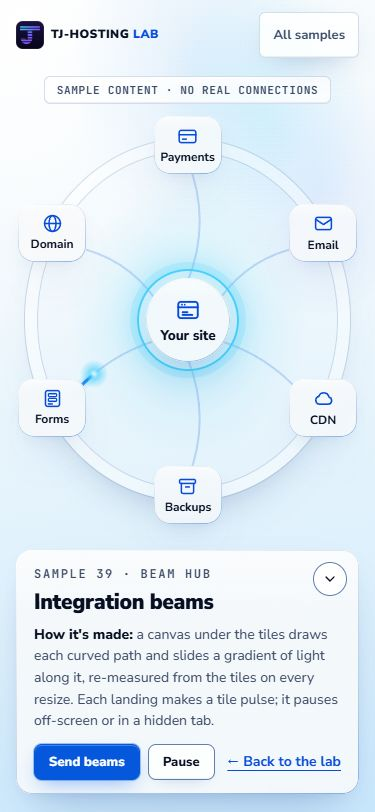
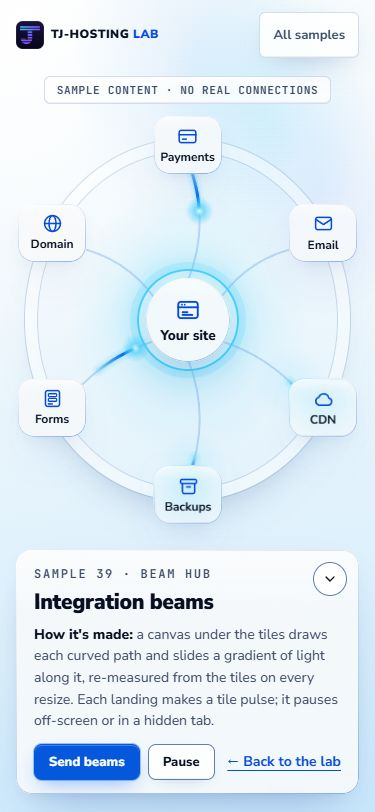
improve(lab-05): S36 beam hub always has light moving
The source's ease-out parked each light under its tile for most of a run, and the six beams ran in phase, so stills often showed none. Now a gentle ease-in-out, staggered first runs and at least four beams on their way at once. Re-gated: PASS, median 16.7 ms.

diff --git a/samples/integration-beams/piece.js b/samples/integration-beams/piece.js
@@ -36,9 +36,10 @@
  * What it keeps from the source: a quadratic path between two measured elements (positions read with
  * getBoundingClientRect, relative to the container), bowed upward by a curvature; a faint path under a brighter one; a
  * light segment whose gradient runs from a head colour through a body colour (at 32.5%) to transparent; the
- * cubic-bezier(0.16, 1, 0.3, 1) ease-out; per-beam delay, duration and rest between runs; the paths measured again when
- * the container's size changes.
- * What it changes: no React, no framer-motion and no SVG: a plain module that draws the beams on a canvas (so the light
+ * per-beam delay, duration and rest between runs; the paths measured again when the container's size changes.
+ * What it changes: the source's cubic-bezier(0.16, 1, 0.3, 1) ease-out became a gentle ease-in-out (the ease-out
+ * parked each light under its tile for most of its run, so the idle hub looked empty); no React, no framer-motion
+ * and no SVG: a plain module that draws the beams on a canvas (so the light
  * moves along the path itself, by arc length, instead of sweeping a gradient across the box); a path runs from just
  * inside one tile's edge to just inside the other's, not centre to centre; the curvature is a share of the path's
  * length; the colours are DS v9's cyan and royal; each landing pulses its tile; the beams are paced by loop(), paused
@@ -63,9 +64,12 @@ const canAnimate = typeof Element.prototype.animate === 'function';
 const HEAD = [70, 208, 251];
 const BODY = [12, 107, 237];
 const RAIL = '5, 88, 220';
-/* how the light travels: the source's ease-out, a segment about 40% of the path (at least 44 px, at most 150) */
-const EASE = cubicBezier(0.16, 1, 0.3, 1);
+/* how the light travels: a gentle ease-in-out (the source's ease-out parked the light under its tile for most of the
+   run), a segment about 40% of the path (at least 44 px, at most 150) */
+const EASE = cubicBezier(0.42, 0, 0.3, 1);
 const SEG_SHARE = 0.4;
+/* the fewest beams running at once while the hub plays */
+const MIN_LIVE = 4;
 /* how far the light runs in under a tile (px): into the glass, so it seems to go in */
 const INSET = 14;
 /* the reduced-motion still: where each beam's head sits (a share of its path) */
@@ -85,8 +89,10 @@ const BEAMS = [
 const beams = BEAMS.map((def, i) => ({
 	...def,
 	el: hub.querySelector(`[data-node="${def.id}"]`),
-	t0: null, // clock time the current run began, or null while it rests
-	next: 0.1 + i * 0.5, // when it runs next (clock seconds)
+	// clock time the current run began, or null while it rests: the first runs start part-way through and staggered
+	// (clock starts at 1.4), so the first screen already has light at every stage of the trip
+	t0: 1.4 - (i / BEAMS.length) * def.dur * 0.85,
+	next: 0, // when it runs next (clock seconds)
 	arrived: false,
 	arrivedAt: -9,
 	hot: 0, // 0 to 1, how brightly the path is lit under a pointer or focus
@@ -372,6 +378,12 @@ function step(dt) {
 			b.t0 = null;
 			b.next = clock + b.rest + rnd() * 1.3;
 		}
+	}
+	/* keep at least four lights on their way (not yet in their last fifth), so the idle hub never looks empty between
+	   runs: the resting beam due soonest goes early */
+	if (beams.filter((b) => b.t0 !== null && (clock - b.t0) / b.dur < 0.8).length < MIN_LIVE) {
+		const due = beams.filter((b) => b.t0 === null).sort((a, z) => a.next - z.next)[0];
+		if (due) { due.t0 = clock; due.arrived = false; }
 	}
 }
 

diff --git a/TASKS-lab-05.md b/TASKS-lab-05.md
@@ -153,7 +153,7 @@ None yet.
 - [P5] S10: the word sits in a mostly empty screen; add faint ambient dithered currents across the field so the whole window lives.
 - [P5] S46: the drawn trail is thin and faint on the sky; bolder royal trail with a brighter pen tip.
 - [P5] S26: the night theme never shows unless someone pulls; an idle pull every 20 s or so would show the twist at a glance. **Done 05:48Z**: first self-pull after 9 s, then every 20 s; a grab or pull restarts the count. Probe: night at about 10 s, day again at about 30 s, no errors; re-gated 16.7 ms.
-- [P5] S36: at rest the beams are often between runs; keep at least two in flight so the idle hub always shows light moving.
+- [P5] S36: at rest the beams are often between runs; keep at least two in flight so the idle hub always shows light moving. **Done 05:53Z**: the source's ease-out parked each light under its tile for most of its run and the six beams ran in phase; now a gentle ease-in-out, staggered first runs, and at least four beams on their way at once (probe: 3-4 lights in each of four stills over 6 s). Re-gated 16.7 ms.
 - [P5] S22: the curtain is subtle in a still; stronger folds or a corner already torn so the twist reads at a glance.
 - [P5] C04 (glitch card) reads as a stacked block; regenerate with clearer offset strips if the budget allows.
 - [P5] C07 (slime tray) and C06 (petri dish) have similar silhouettes on the home; regenerate C07 as a different object if the budget allows.

diff --git a/evidence/lab-05/samples/integration-beams/check.md b/evidence/lab-05/samples/integration-beams/check.md
@@ -1,6 +1,6 @@
 # check-sample: integration-beams — PASS
 
-2026-10-28T03:45:47.897Z · Chromium WebGL: ANGLE (AMD, AMD Radeon (TM) Graphics (0x000015E7) Direct3D11 vs_5_0 ps_5_0, D3D11) · Firefox: not run (browserType.launch: spawn UNKNOWN)
+2026-10-28T05:53:09.918Z · Chromium WebGL: ANGLE (AMD, AMD Radeon (TM) Graphics (0x000015E7) Direct3D11 vs_5_0 ps_5_0, D3D11) · Firefox: not run (browserType.launch: spawn UNKNOWN)
 
 ## Notes
 - loads 8 local files: samples/integration-beams/index.html, css/glass.css, css/lab.css, css/sample.css, samples/integration-beams/piece.css, js/early.js, samples/integration-beams/piece.js, js/lab.js
